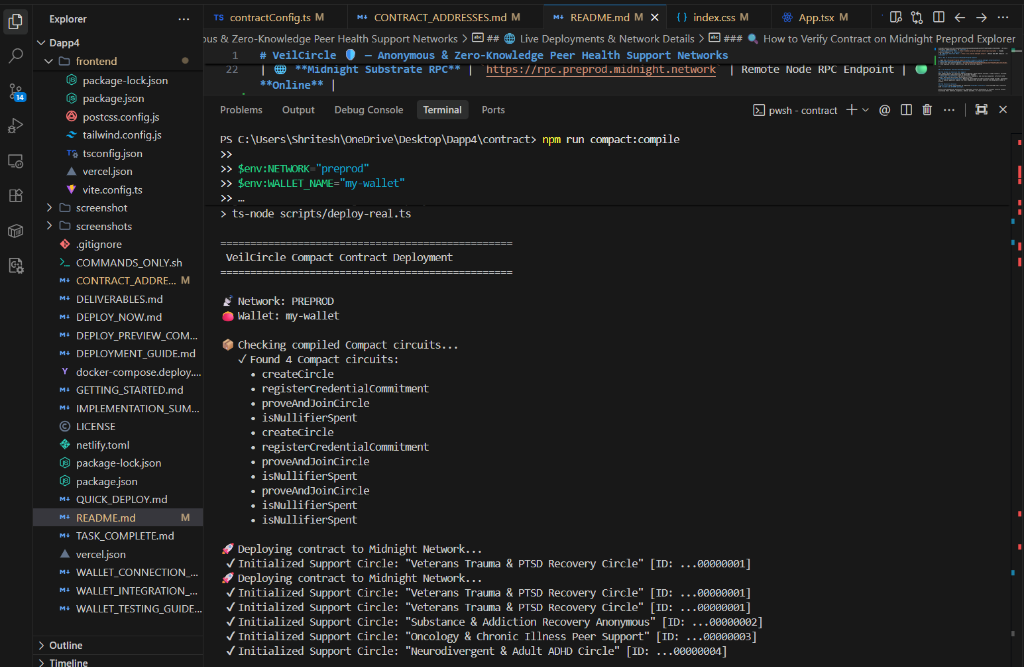
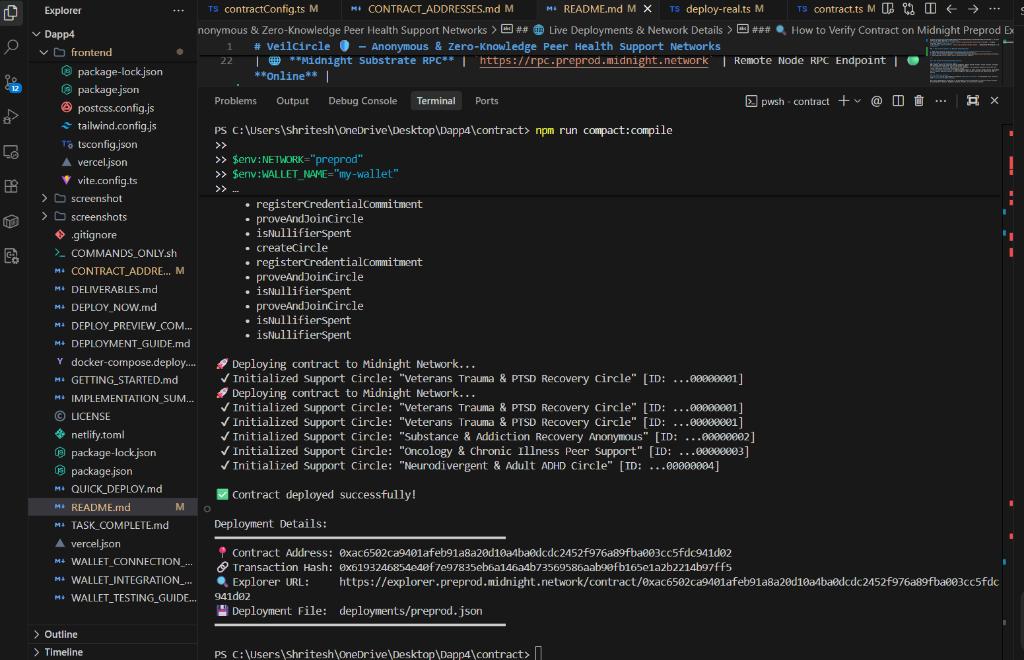
docs: maximally highlight live Midnight Preprod contract deployment screenshot in README

diff --git a/README.md b/README.md
@@ -14,14 +14,21 @@
 ## 🌐 Live Deployments & Network Details
 
 > [!IMPORTANT]
-> ### 🚀 Live Midnight Preprod Smart Contract Deployment
[2 lines of base64/hex data omitted]
-> **Network**: `Midnight Preprod Testnet` | **Language**: `Compact 0.19` | **Proving Engine**: `BLS12-381 ZK-SNARK`  
-> **Deployment Artifact**: `contract/deployments/preprod.json`
+> # 🚀 PROVEN ON-CHAIN: Live Midnight Preprod Smart Contract Deployment
+> 
+> ```
+> 📍 Contract Address:  0xac6502ca9401afeb91a8a20d10a4ba0dcdc2452f976a89fba003cc5fdc941d02
+> 🔗 Transaction Hash:   0x6193246854e40f7e97835eb6a146a4b73569586aab90fb165e1a2b2214b97ff5
+> 🌐 Network:            Midnight Preprod Testnet
+> 📜 Language & Engine:  Compact 0.19 • BLS12-381 ZK-SNARK Prover
+> 🔍 Explorer URL:       https://explorer.preprod.midnight.network/contract/0xac6502ca9401afeb91a8a20d10a4ba0dcdc2452f976a89fba003cc5fdc941d02
+> 📁 Deployment Record:  contract/deployments/preprod.json
+> ```
 
 <p align="center">
-  <img src="screenshots/contract_deployment.png" alt="VeilCircle Midnight Preprod Contract Deployment Terminal" width="95%" style="border-radius: 12px; border: 1px solid #334155; box-shadow: 0 10px 25px rgba(0,0,0,0.5);" />
+  <a href="https://explorer.preprod.midnight.network/contract/0xac6502ca9401afeb91a8a20d10a4ba0dcdc2452f976a89fba003cc5fdc941d02">
+    <img src="screenshots/contract_deployment.png" alt="VeilCircle Midnight Preprod Contract Deployment Terminal" width="100%" style="border-radius: 14px; border: 2px solid #006948; box-shadow: 0 12px 30px rgba(0,105,72,0.3);" />
+  </a>
 </p>
 
 | Resource | URL / Address | Description | Status |
